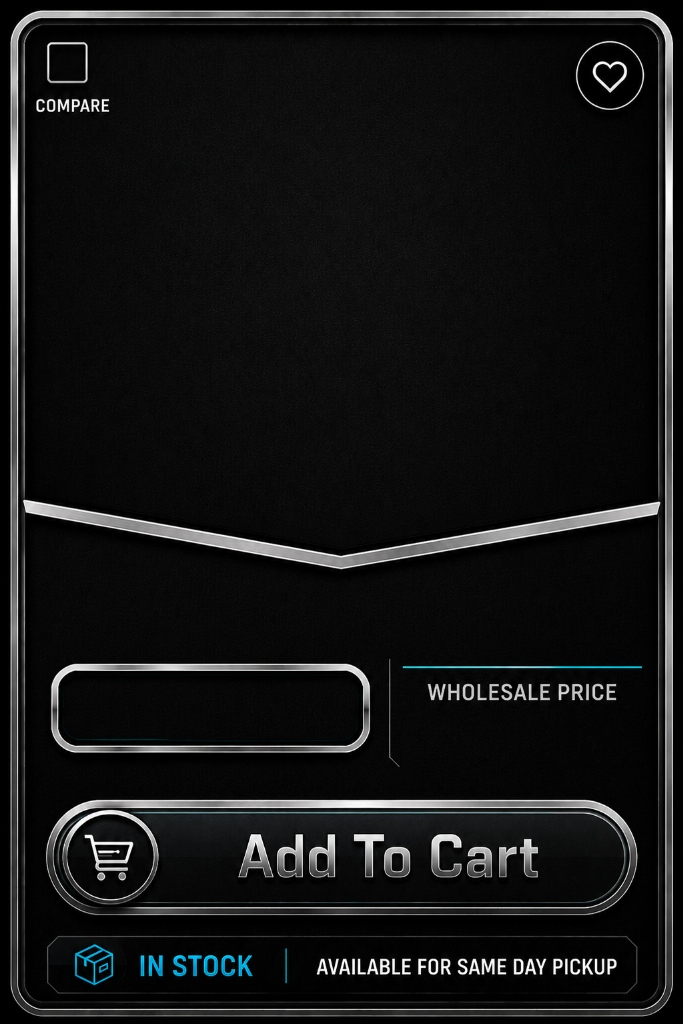
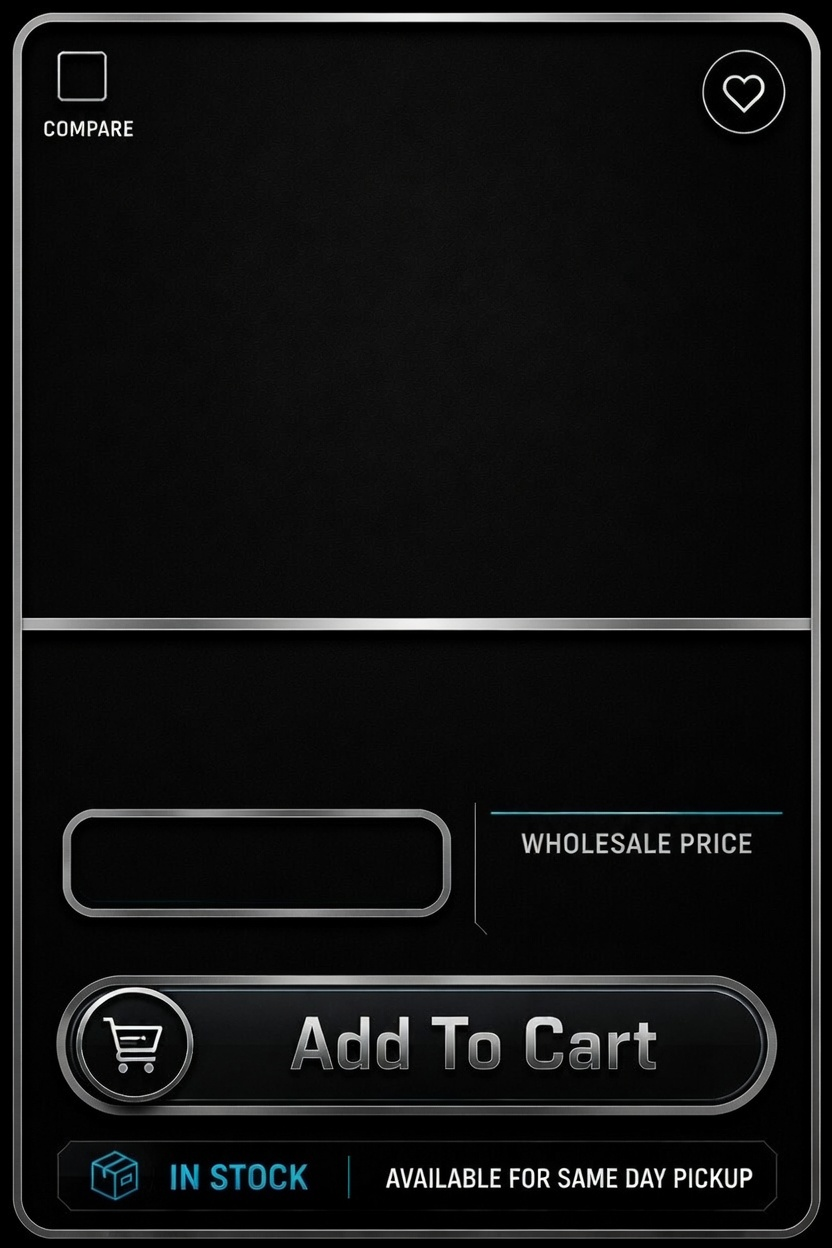
feat(PremiumPeptideCard): adopt Store Frame V2 flat-bar template, remap all coordinates to 832x1248 canvas

diff --git a/components/storefront/PremiumPeptideCard.tsx b/components/storefront/PremiumPeptideCard.tsx
@@ -42,12 +42,12 @@ export default function PremiumPeptideCard({
   onHover,
   hasSearchMatch = null
 }: Props) {
-  // Helper to convert 683x1024 canvas pixels to responsive CQI units
-  const px = (val: number) => `calc(${val} * 100cqi / 683)`;
-  
+  // Helper to convert 832x1248 canvas pixels to responsive CQI units
+  const px = (val: number) => `calc(${val} * 100cqi / 832)`;
+
   return (
-    <div 
-      style={{ containerType: 'inline-size', width: '100%', maxWidth: 683, margin: '0 auto', cursor: 'pointer' }}
+    <div
+      style={{ containerType: 'inline-size', width: '100%', maxWidth: 832, margin: '0 auto', cursor: 'pointer' }}
       onClick={onClick}
       onMouseEnter={onHover}
       role="button"
@@ -57,13 +57,12 @@ export default function PremiumPeptideCard({
       <div style={{
         position: 'relative',
         width: '100%',
-        paddingBottom: '149.92679%', // 1024 / 683
+        paddingBottom: '150%', // 1248 / 832
         overflow: 'hidden',
-        // Fallback fonts if custom fonts haven't loaded yet
         fontFamily: 'var(--font-sans, sans-serif)',
         transition: 'transform 0.2s',
       }}>
-        {/* Exact background template provided by user */}
+        {/* Store Frame V2 background — flat metallic separator bar design */}
         <Image
           src="/images/storefront/premium-card-bg.jpg"
           alt="Card Background"
@@ -72,22 +71,25 @@ export default function PremiumPeptideCard({
           style={{ objectFit: 'cover', pointerEvents: 'none', zIndex: 0 }}
         />
 
-        {/* Global wrapper matching canvas size for absolute positioning over the background */}
+        {/* Global wrapper for absolute-positioned overlays */}
         <div style={{ position: 'absolute', top: 0, left: 0, right: 0, bottom: 0, zIndex: 10 }}>
-          
-          {/* Vial Image — flat rectangular window, contained by overflow:hidden */}
+
+          {/* ─── VIAL IMAGE ─────────────────────────────────────────────
+              Sits in the top image window (above the flat metallic bar).
+              The flat bar is at ~715px on the 1248 canvas → 57.3%.
+              We stop the image container at 710px so the bar is always
+              fully visible on top. Overflow:hidden gives a hard flat edge. */}
           <div style={{
             position: 'absolute',
-            left: px(25), top: px(25), right: px(25), height: px(523),
-            borderRadius: `${px(20)} ${px(20)} 0 0`,
+            left: px(30), top: px(30), right: px(30), height: px(680),
+            borderRadius: `${px(22)} ${px(22)} 0 0`,
             overflow: 'hidden',
-            zIndex: 15
+            zIndex: 15,
           }}>
             <Image
               src={imageSrc}
               alt={productName}
               fill
-              // cover = fills the V-window edge-to-edge; clip-path handles the V boundary
               style={{ objectFit: 'cover', objectPosition: 'center center' }}
               onError={(e) => {
                 const target = e.target as HTMLImageElement;
@@ -96,7 +98,7 @@ export default function PremiumPeptideCard({
             />
           </div>
 
-          {/* --- SEARCH MATCH CHIP (Optional) --- */}
+          {/* ─── SEARCH MATCH CHIP (optional) ───────────────────────── */}
           {hasSearchMatch && hasSearchMatch.reason && (() => {
             const confidenceStyle: Record<'high' | 'medium' | 'low', { bg: string; border: string; color: string; label: string }> = {
               high:   { bg: 'rgba(79,209,197,0.12)',  border: 'rgba(79,209,197,0.35)',  color: '#4FD1C5', label: 'Strong Match' },
@@ -107,17 +109,17 @@ export default function PremiumPeptideCard({
             if (!cs) return null;
             return (
               <div style={{
-                position: 'absolute', top: px(140), left: px(26), right: px(25), zIndex: 40,
+                position: 'absolute', top: px(170), left: px(30), right: px(30), zIndex: 40,
                 display: 'flex', justifyContent: 'center', pointerEvents: 'none'
               }}>
                 <div style={{
                   background: 'rgba(20, 25, 30, 0.85)', backdropFilter: 'blur(8px)',
-                  border: `1px solid ${cs.border}`, padding: `${px(4)} ${px(10)}`, borderRadius: px(20),
-                  display: 'flex', alignItems: 'center', gap: px(6), fontSize: px(16),
-                  fontWeight: 700, color: cs.color, boxShadow: `0 ${px(4)} ${px(12)} rgba(0,0,0,0.5)`,
+                  border: `1px solid ${cs.border}`, padding: `${px(5)} ${px(12)}`, borderRadius: px(24),
+                  display: 'flex', alignItems: 'center', gap: px(7), fontSize: px(19),
+                  fontWeight: 700, color: cs.color, boxShadow: `0 ${px(4)} ${px(14)} rgba(0,0,0,0.5)`,
                   maxWidth: '90%', textTransform: 'uppercase', letterSpacing: '0.04em'
                 }}>
-                  <svg width={px(16)} height={px(16)} viewBox="0 0 24 24" fill="none" stroke="currentColor" strokeWidth="2"><path d="M12 2v20M17 5H9.5a3.5 3.5 0 0 0 0 7h5a3.5 3.5 0 0 1 0 7H6"/></svg>
+                  <svg width={px(18)} height={px(18)} viewBox="0 0 24 24" fill="none" stroke="currentColor" strokeWidth="2"><path d="M12 2v20M17 5H9.5a3.5 3.5 0 0 0 0 7h5a3.5 3.5 0 0 1 0 7H6"/></svg>
                   <span style={{ overflow: 'hidden', textOverflow: 'ellipsis', whiteSpace: 'nowrap' }}>
                     {cs.label}: {hasSearchMatch.reason}
                   </span>
@@ -126,10 +128,10 @@ export default function PremiumPeptideCard({
             );
           })()}
 
-          {/* --- COMPARE CONTROL (Top Left) --- */}
+          {/* ─── COMPARE CHECKBOX (Top Left) ────────────────────────── */}
           <div style={{
             position: 'absolute',
-            left: px(30), top: px(25), width: px(70), height: px(70),
+            left: px(36), top: px(30), width: px(85), height: px(85),
             display: 'flex', alignItems: 'center', justifyContent: 'center',
             zIndex: 30
           }}>
@@ -139,15 +141,15 @@ export default function PremiumPeptideCard({
               onChange={onCompareToggle}
               onClick={e => e.stopPropagation()}
               style={{
-                width: px(45), height: px(45),
+                width: px(54), height: px(54),
                 cursor: 'pointer',
-                opacity: isPinned ? 1 : 0, 
+                opacity: isPinned ? 1 : 0,
                 accentColor: '#00e5ff'
               }}
             />
           </div>
 
-          {/* --- FAVORITE HEART (Top Right) --- */}
+          {/* ─── WISHLIST HEART (Top Right) ─────────────────────────── */}
           <button
             type="button"
             onClick={(e) => {
@@ -156,8 +158,8 @@ export default function PremiumPeptideCard({
             }}
             style={{
               position: 'absolute',
-              right: px(35), top: px(25),
-              width: px(85), height: px(85),
+              right: px(42), top: px(30),
+              width: px(100), height: px(100),
               background: isWishlisted ? 'rgba(229,62,62,0.8)' : 'transparent',
               border: 'none',
               borderRadius: '50%',
@@ -168,27 +170,26 @@ export default function PremiumPeptideCard({
             }}
           >
             {isWishlisted && (
-              <svg width={px(40)} height={px(40)} viewBox="0 0 24 24" fill="#FF5A6E" stroke="#FF5A6E" strokeWidth="2" strokeLinecap="round" strokeLinejoin="round">
+              <svg width={px(48)} height={px(48)} viewBox="0 0 24 24" fill="#FF5A6E" stroke="#FF5A6E" strokeWidth="2" strokeLinecap="round" strokeLinejoin="round">
                 <path d="M20.84 4.61a5.5 5.5 0 0 0-7.78 0L12 5.67l-1.06-1.06a5.5 5.5 0 0 0-7.78 7.78l1.06 1.06L12 21.23l7.78-7.78 1.06-1.06a5.5 5.5 0 0 0 0-7.78z"></path>
               </svg>
             )}
           </button>
 
-
-          {/* --- PRODUCT NAME AREA --- */}
-          {/* 5. Lowered and centered to the space, dynamic custom font sizes */}
+          {/* ─── PRODUCT NAME ────────────────────────────────────────── 
+              Sits in the dark info band just below the metallic bar.
+              Bar bottom edge ≈ 730px, pill top ≈ 1000px → center ≈ 865px. */}
           {(() => {
-            // Determine font size based on length
             const len = productName.length;
-            let dynamicFontSize = px(44);
-            if (len > 22) dynamicFontSize = px(26);
-            else if (len > 15) dynamicFontSize = px(30);
-            else if (len > 11) dynamicFontSize = px(36);
+            let dynamicFontSize = px(54);
+            if (len > 22) dynamicFontSize = px(32);
+            else if (len > 15) dynamicFontSize = px(38);
+            else if (len > 11) dynamicFontSize = px(44);
 
             return (
               <div style={{
                 position: 'absolute',
-                left: px(51), top: px(548), width: px(319), height: px(116), // Perfectly centered vertically in available space between V-frame and pill
+                left: px(30), top: px(730), width: px(430), height: px(140),
                 display: 'flex', flexDirection: 'column', justifyContent: 'center', alignItems: 'center',
                 zIndex: 30, pointerEvents: 'none'
               }}>
@@ -204,7 +205,6 @@ export default function PremiumPeptideCard({
                   overflow: 'hidden',
                   textOverflow: 'ellipsis',
                   textAlign: 'center',
-                  // Silver Gradient
                   background: 'linear-gradient(180deg, #FFFFFF 0%, #B9C0C7 40%, #828A92 100%)',
                   WebkitBackgroundClip: 'text',
                   WebkitTextFillColor: 'transparent',
@@ -216,21 +216,20 @@ export default function PremiumPeptideCard({
             );
           })()}
 
-          {/* --- SIZE BADGE AREA (Inside the Pill box) --- */}
-          {/* Silver gradient for weights */}
+          {/* ─── VIAL SIZE BADGE (inside the pill button on left) ────── 
+              Pill in template: left ~62px, top ~990px, width ~390px, height ~108px */}
           <div style={{
             position: 'absolute',
-            left: px(51), top: px(664), width: px(319), height: px(89),
+            left: px(62), top: px(990), width: px(390), height: px(108),
             display: 'flex', alignItems: 'center', justifyContent: 'center',
             zIndex: 30, pointerEvents: 'none'
           }}>
             <span style={{
               fontFamily: 'var(--font-montserrat, sans-serif)',
               fontWeight: 800,
-              fontSize: px(34),
+              fontSize: px(40),
               letterSpacing: px(1),
               textTransform: 'uppercase',
-              // Silver Gradient
               background: 'linear-gradient(180deg, #FFFFFF 0%, #B9C0C7 40%, #828A92 100%)',
               WebkitBackgroundClip: 'text',
               WebkitTextFillColor: 'transparent',
@@ -240,43 +239,43 @@ export default function PremiumPeptideCard({
             </span>
           </div>
 
+          {/* ─── PRICING (Right column, below bar) ───────────────────── 
+              WHOLESALE PRICE label ≈ top 760px, right section x≈468px, width≈332px */}
 
-          {/* --- PRICING AREA (Right Side) --- */}
-          
           {(msrp !== undefined && msrp > (wholesalePrice ?? 0)) && (
             <>
-              {/* 3. Raised MSRP to clear the cyan line */}
+              {/* MSRP row */}
               <div style={{
                 position: 'absolute',
-                left: px(380), width: px(280), top: px(560),
-                display: 'flex', alignItems: 'baseline', justifyContent: 'center', gap: px(6),
+                left: px(468), width: px(332), top: px(750),
+                display: 'flex', alignItems: 'baseline', justifyContent: 'center', gap: px(7),
                 zIndex: 30, pointerEvents: 'none'
               }}>
                 <span style={{
                   fontFamily: 'var(--font-roboto-condensed, sans-serif)',
                   fontWeight: 700,
-                  fontSize: px(26),
+                  fontSize: px(31),
                   color: '#8B8F93'
                 }}>MSRP</span>
                 <span style={{
                   fontFamily: 'var(--font-roboto-condensed, sans-serif)',
                   fontWeight: 700,
-                  fontSize: px(30),
+                  fontSize: px(36),
                   color: '#8B8F93',
                   textDecoration: 'line-through',
                   textDecorationThickness: px(2)
                 }}>${msrp.toFixed(2)}</span>
               </div>
 
-              {/* 3. Raised Savings Text to clear the cyan line */}
+              {/* YOU SAVE row */}
               {savings !== undefined && savings > 0 && (
                 <div style={{
                   position: 'absolute',
-                  left: px(380), width: px(280), top: px(592),
+                  left: px(468), width: px(332), top: px(800),
                   display: 'flex', justifyContent: 'center',
                   fontFamily: 'var(--font-roboto-condensed, sans-serif)',
                   fontWeight: 700,
-                  fontSize: px(27),
+                  fontSize: px(33),
                   color: '#00C7E8',
                   textTransform: 'uppercase',
                   zIndex: 30, pointerEvents: 'none'
@@ -287,29 +286,29 @@ export default function PremiumPeptideCard({
             </>
           )}
 
-          {/* Centered Wholesale Price Digits */}
+          {/* Wholesale Price digits */}
           <div style={{
             position: 'absolute',
-            left: px(380), width: px(280), top: px(710),
+            left: px(468), width: px(332), top: px(1010),
             display: 'flex', justifyContent: 'center',
             fontFamily: 'var(--font-roboto-condensed, sans-serif)',
             fontWeight: 700,
-            fontSize: px(65),
-            color: '#00D5F2', 
+            fontSize: px(80),
+            color: '#00D5F2',
             lineHeight: 1,
-            textShadow: `0 ${px(4)} ${px(10)} rgba(0,0,0,0.5)`,
+            textShadow: `0 ${px(4)} ${px(12)} rgba(0,0,0,0.5)`,
             zIndex: 30, pointerEvents: 'none'
           }}>
             ${(wholesalePrice ?? 0).toFixed(2)}
           </div>
 
-
-          {/* --- ADD TO CART BUTTON (Invisible overlay) --- */}
-          <div 
+          {/* ─── ADD TO CART (invisible click overlay) ───────────────── 
+              Button in template: left ~56px, top ~1155px, width ~720px, height ~135px */}
+          <div
             style={{
               position: 'absolute',
-              left: px(46), top: px(800), width: px(591), height: px(115),
-              borderRadius: px(57.5),
+              left: px(56), top: px(1155), width: px(720), height: px(135),
+              borderRadius: px(68),
               cursor: 'pointer',
               zIndex: 30
             }}
@@ -319,10 +318,9 @@ export default function PremiumPeptideCard({
             }}
             aria-label={buttonText}
           />
-          
+
         </div>
       </div>
     </div>
   );
 }
-
